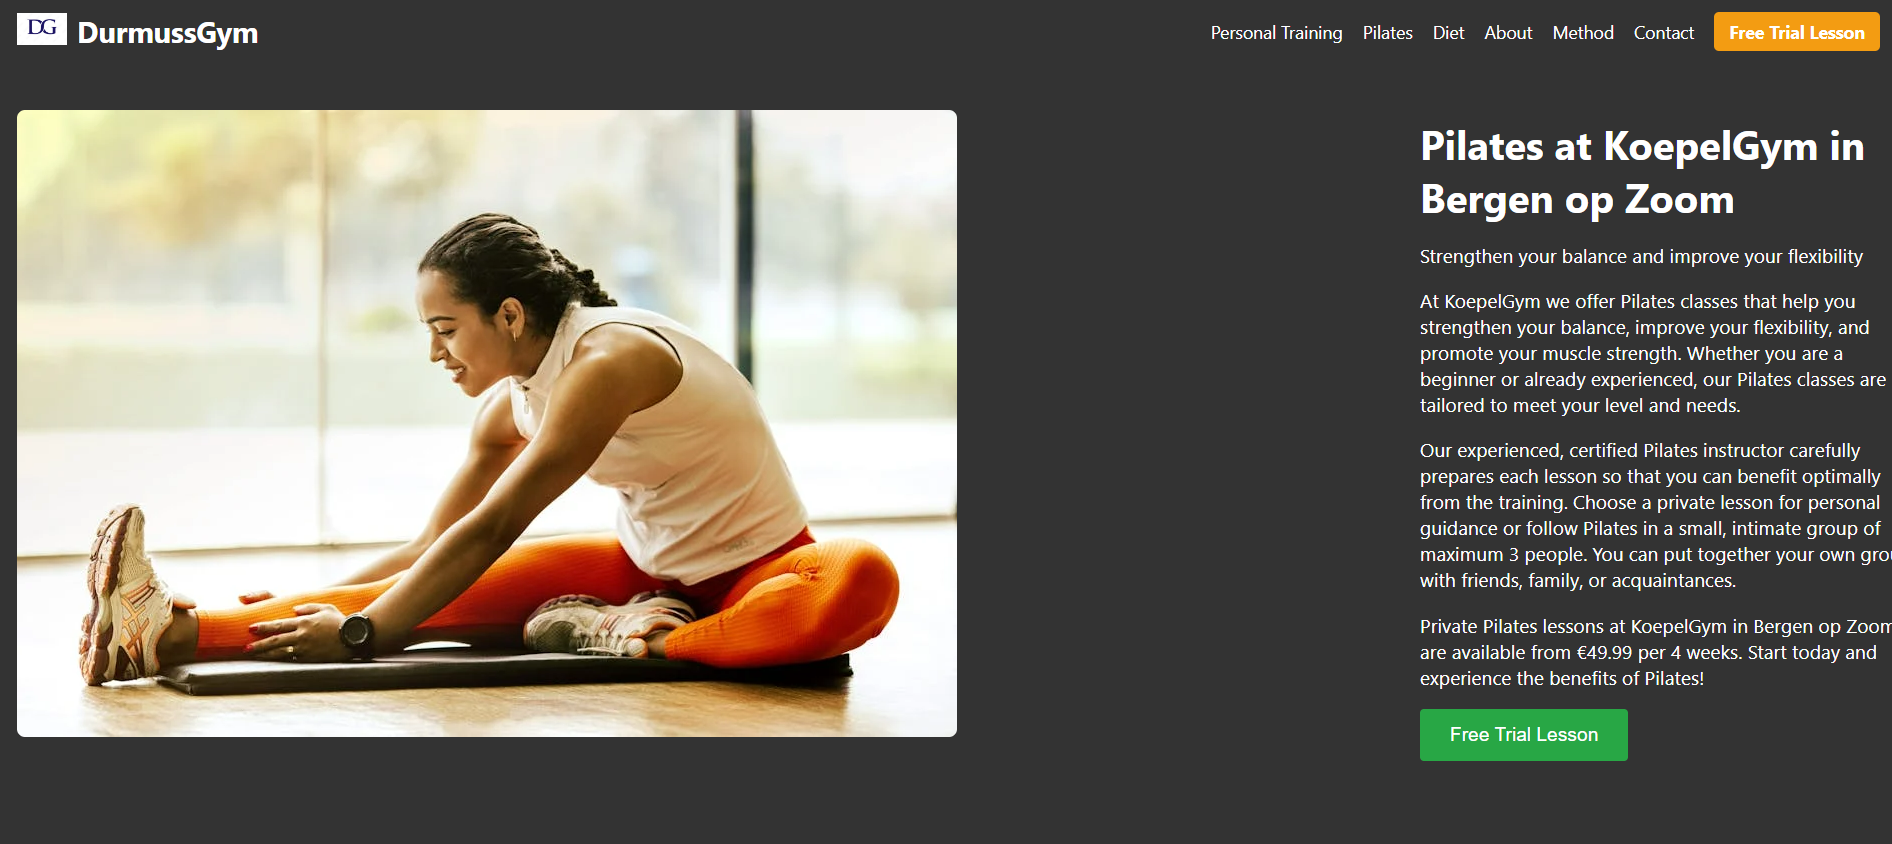
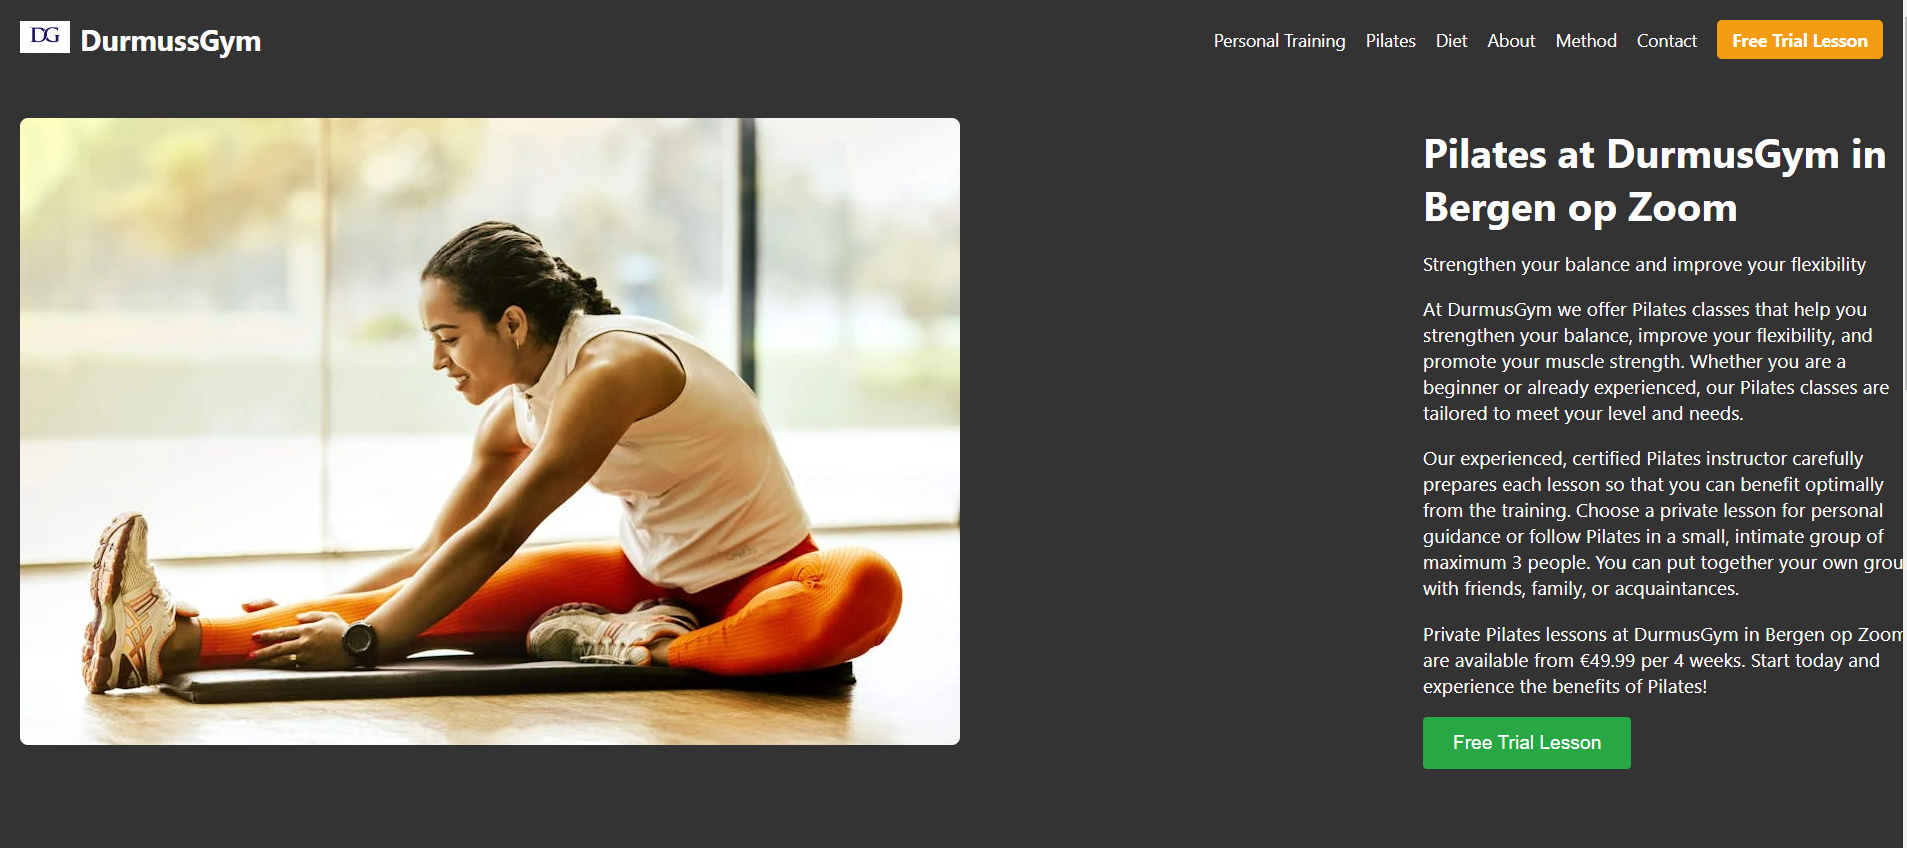
pliates page is updated

diff --git a/client/src/components/Pilates.js b/client/src/components/Pilates.js
@@ -34,10 +34,10 @@ const Pilates = () => {
                 />
               </div>
               <div className="text-content">
-                <h1>Pilates at KoepelGym in Bergen op Zoom</h1>
+                <h1>Pilates at DurmusGym in Bergen op Zoom</h1>
                 <p>Strengthen your balance and improve your flexibility</p>
                 <p>
-                  At KoepelGym we offer Pilates classes that help you strengthen
+                  At DurmusGym we offer Pilates classes that help you strengthen
                   your balance, improve your flexibility, and promote your muscle
                   strength. Whether you are a beginner or already experienced, our
                   Pilates classes are tailored to meet your level and needs.
@@ -50,7 +50,7 @@ const Pilates = () => {
                   together your own group with friends, family, or acquaintances.
                 </p>
                 <p>
-                  Private Pilates lessons at KoepelGym in Bergen op Zoom are
+                  Private Pilates lessons at DurmusGym in Bergen op Zoom are
                   available from €49.99 per 4 weeks. Start today and experience
                   the benefits of Pilates!
                 </p>
